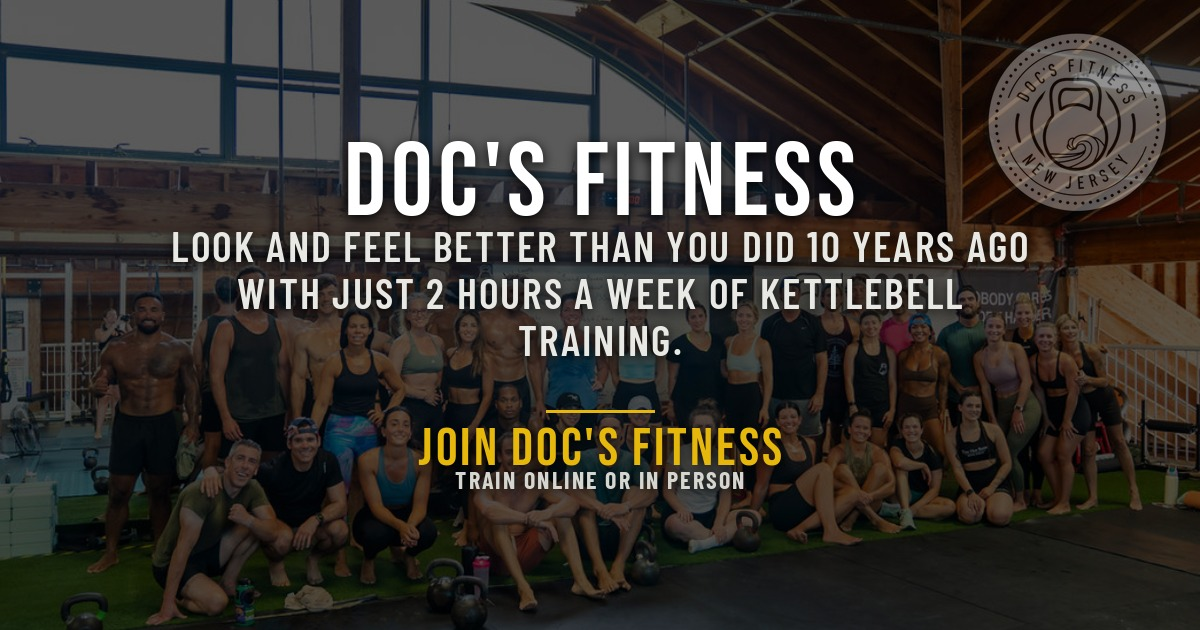
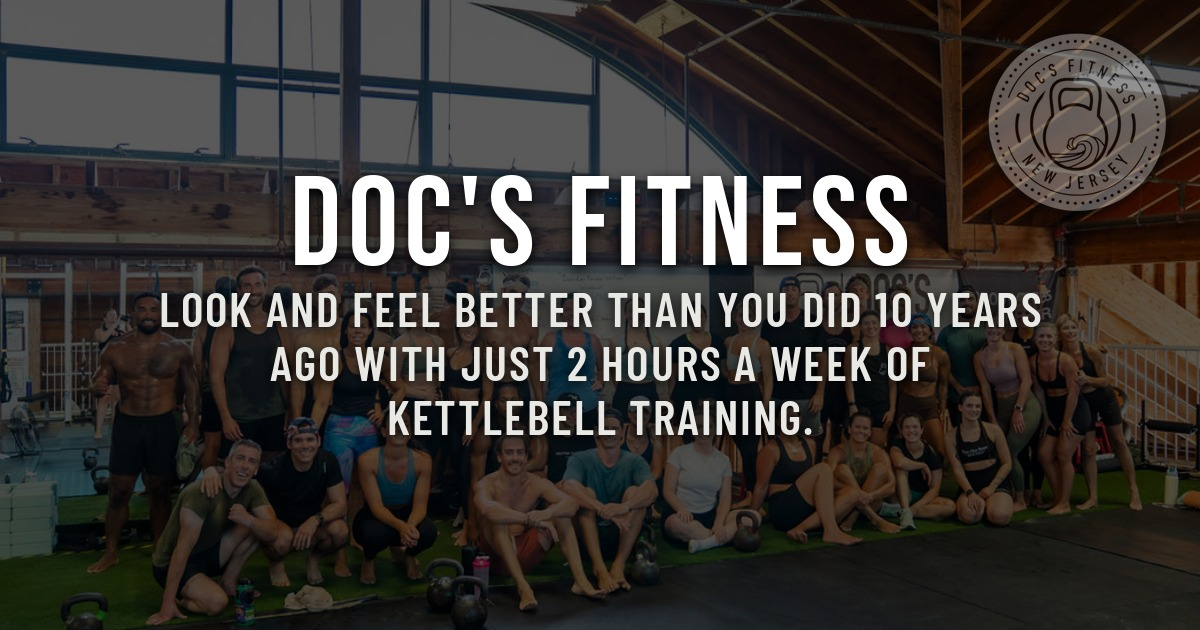
Remove share image CTA, update link preview copy, re-verify iMessage fix
1. Removed the "JOIN DOC'S FITNESS / TRAIN ONLINE OR IN PERSON" call to
   action from both share images — redundant with the title/description
   text every platform already renders below the card. Both images now
   keep just: crew photo, badge top-right, "DOC'S FITNESS", and the
   tagline — resized up slightly to fill the vertical space the CTA block
   freed, staying legible at thumbnail size. Applied to both the wide
   (1200x630) and square (1200x1200) versions.

2. Updated og:title/og:description (and the matching twitter:title/
   twitter:description, and the generic <meta name="description">) to:
   - og:title: "Join Doc's Fitness: Train Online or In Person"
   - og:description: "Kettlebell workouts. Class booking. Weekly
     challenge. All in one app."
   Pulled these into two new exported constants in src/lib/links.ts
   (APP_SHARE_TITLE / APP_SHARE_DESCRIPTION) so the Invite a Friend
   preview card's "what they'll see" mockup reads the same title/
   description instead of a second hand-copied string that could drift.

3. The share message (Share.share's message field, and the MESSAGE bubble
   on the Invite a Friend screen) is now built from those same two
   constants: "Join Doc's Fitness: Train Online or In Person. Kettlebell
   workouts. Class booking. Weekly challenge. All in one app."

4. Re-verified the iMessage crop/duplicate root cause from the last round
   is genuinely fixed server-side, since it was reported as still
[…]

Changed region(s): [[0.1233, 0.2111, 0.8633, 0.6032], [0.3083, 0.6333, 0.6783, 0.7841]]

diff --git a/public/index.html b/public/index.html
@@ -7,7 +7,7 @@
     <title>%WEB_TITLE%</title>
     <meta
       name="description"
-      content="Train online or in person at Doc's Fitness. Kettlebell workouts, a weekly challenge, and class booking, all in one app."
+      content="Kettlebell workouts. Class booking. Weekly challenge. All in one app."
     />
 
     <!-- Brand mark for the browser tab and any "add to home screen" save —
@@ -35,10 +35,10 @@
          get the 1200x630 version. -->
     <meta property="og:type" content="website" />
     <meta property="og:url" content="https://docsfitnessnj.github.io/docs-fitness-app" />
-    <meta property="og:title" content="Doc's Fitness" />
+    <meta property="og:title" content="Join Doc's Fitness: Train Online or In Person" />
     <meta
       property="og:description"
-      content="Train online or in person at Doc's Fitness. Kettlebell workouts, a weekly challenge, and class booking, all in one app."
+      content="Kettlebell workouts. Class booking. Weekly challenge. All in one app."
     />
     <meta property="og:image" content="https://docsfitnessnj.github.io/docs-fitness-app/share-image-square.jpg" />
     <meta property="og:image:width" content="1200" />
@@ -51,10 +51,10 @@
 
     <!-- Twitter/X Card — mirrors the Open Graph tags above. -->
     <meta name="twitter:card" content="summary_large_image" />
-    <meta name="twitter:title" content="Doc's Fitness" />
+    <meta name="twitter:title" content="Join Doc's Fitness: Train Online or In Person" />
     <meta
       name="twitter:description"
-      content="Train online or in person at Doc's Fitness. Kettlebell workouts, a weekly challenge, and class booking, all in one app."
+      content="Kettlebell workouts. Class booking. Weekly challenge. All in one app."
     />
     <meta name="twitter:image" content="https://docsfitnessnj.github.io/docs-fitness-app/share-image.jpg" />
 

diff --git a/src/components/InviteFriendModal.tsx b/src/components/InviteFriendModal.tsx
@@ -3,7 +3,7 @@ import { Image, Pressable, ScrollView, StyleSheet, Text, View } from 'react-nati
 import { Ionicons } from '@expo/vector-icons';
 import { AppModal } from './AppModal';
 import { ModalHeader } from './ModalHeader';
-import { APP_SHARE_MESSAGE, APP_SHARE_URL, copyInviteLink, shareInvite } from '../lib/links';
+import { APP_SHARE_DESCRIPTION, APP_SHARE_MESSAGE, APP_SHARE_TITLE, APP_SHARE_URL, copyInviteLink, shareInvite } from '../lib/links';
 import { useIsDesktop } from '../lib/responsive';
 import { colors, fonts } from '../theme';
 
@@ -63,10 +63,11 @@ export function InviteFriendModal({ visible, onClose }: Props) {
                 )}
               </View>
               <View style={styles.previewBody}>
-                <Text style={styles.previewTitle}>Doc's Fitness</Text>
+                <Text style={styles.previewTitle} numberOfLines={2}>
+                  {APP_SHARE_TITLE}
+                </Text>
                 <Text style={styles.previewDescription} numberOfLines={2}>
-                  Train online or in person at Doc's Fitness. Kettlebell workouts, a weekly challenge, and class
-                  booking, all in one app.
+                  {APP_SHARE_DESCRIPTION}
                 </Text>
                 <Text style={styles.previewDomain}>{SHARE_DOMAIN}</Text>
               </View>

diff --git a/src/lib/links.ts b/src/lib/links.ts
@@ -2,12 +2,18 @@ import { Linking, Platform, Share } from 'react-native';
 import { showAlert } from './alert';
 import { LOCATION } from '../theme';
 
-// Keep this in sync with public/index.html's og:url/og:image, which can't
-// import this constant since that file is served as-is, not bundled.
+// Keep this in sync with public/index.html's og:url/og:image/og:title/
+// og:description, which can't import these constants since that file is
+// served as-is, not bundled.
 export const APP_SHARE_URL = 'https://docsfitnessnj.github.io/docs-fitness-app';
 
-export const APP_SHARE_MESSAGE =
-  "Doc's Fitness — kettlebell workouts, a weekly challenge, and class booking, all in one app.";
+// The og:title / og:description text — also what the Invite a Friend
+// preview card shows as "what they'll see," so it stays a faithful preview
+// of the real link card.
+export const APP_SHARE_TITLE = "Join Doc's Fitness: Train Online or In Person";
+export const APP_SHARE_DESCRIPTION = 'Kettlebell workouts. Class booking. Weekly challenge. All in one app.';
+
+export const APP_SHARE_MESSAGE = `${APP_SHARE_TITLE}. ${APP_SHARE_DESCRIPTION}`;
 
 // Opens the device share sheet with the invite message and link as separate
 // fields (not one concatenated string) — iOS, Android, and the Web Share
